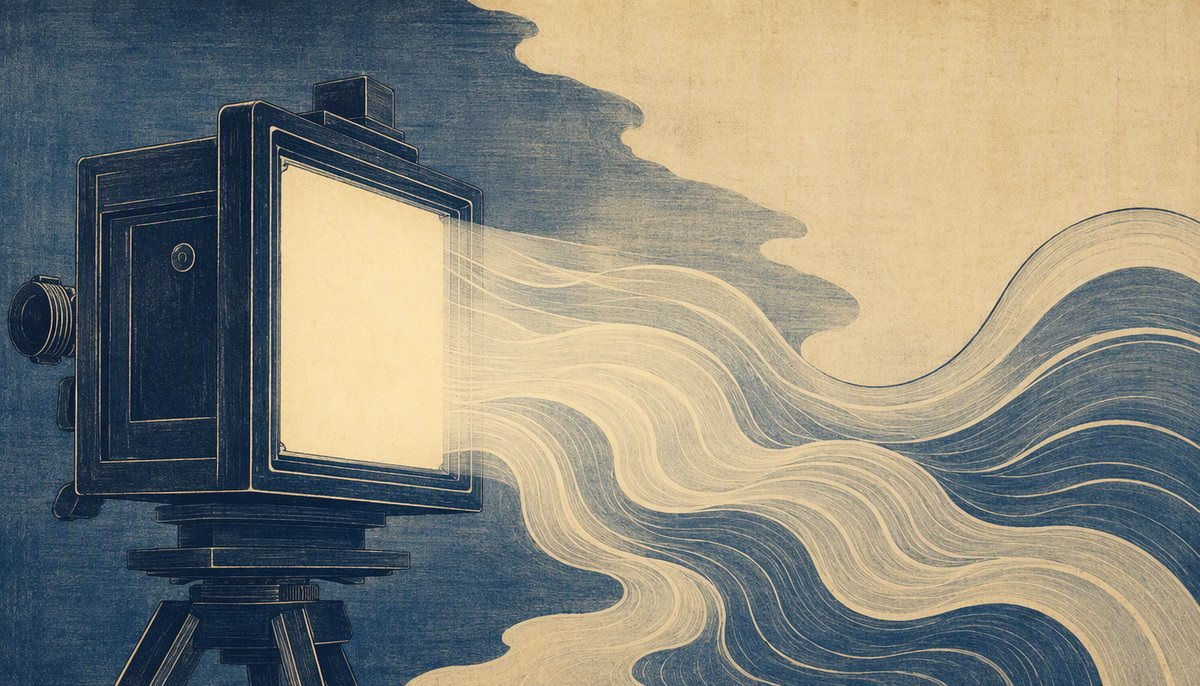
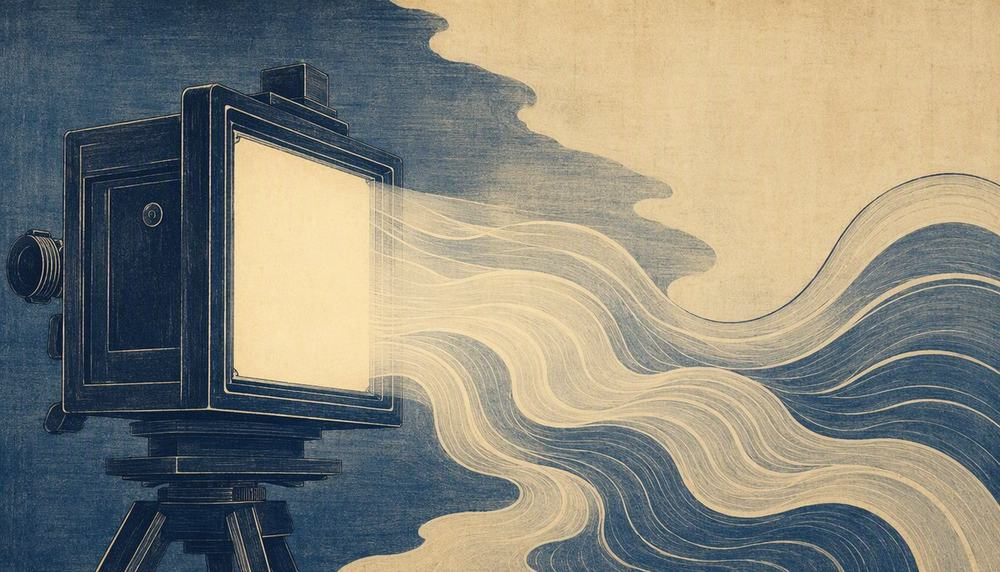
Re-encode covers as baseline JPEG and add more preview image hints
WeChat still fell back to the site icon instead of the cover, so I attacked the
two things a thumbnail fetch can actually trip on:

- The covers were **progressive** JPEGs. That is a needless compatibility risk
  for link-preview crawlers. They are now baseline (SOF0).
- The download was slow and large: 209 KB took ~2.9 s end to end. Covers are
  now 1000px wide at q76, baseline: the same file is 111 KB, and the seven
  covers went from 1.7 MB to 965 KB total.

Also declared more ways for a scraper to find the image, since OpenGraph alone
is not the only convention in this space:

- og:image:type (so the MIME is known without a second request)
- <link rel="image_src"> — what WeChat/QQ honoured before OpenGraph
- itemprop="image" — Schema.org microdata

An asset guard test class now checks the shipped covers: baseline SOF0 (walked
properly through the marker segments, so a 0xFFC2 byte inside compressed data
cannot fool it), under 200 KB each, and at least 1000px wide. Those read the
real files, unlike the HTML tests. 77 tests total.

Changed region(s): [[0.217, 0.1783, 0.248, 0.2378], [0.031, 0.4161, 0.062, 0.4755], [0.31, 0.1783, 0.341, 0.208]]

diff --git a/scripts/test_build.py b/scripts/test_build.py
@@ -720,6 +720,15 @@ class LinkPreviewTests(unittest.TestCase):
         self.assertIn('name="twitter:card" content="summary_large_image"', self.en)
         self.assertIn('name="twitter:image"', self.en)
 
+    def test_legacy_and_microdata_image_hints_are_present(self):
+        """WeChat/QQ honoured rel=image_src before OpenGraph, and some scrapers
+        read Schema.org microdata — cheap to declare both."""
+        self.assertIn('<link rel="image_src"', self.en)
+        self.assertIn('itemprop="image"', self.en)
+
+    def test_og_image_type_is_declared(self):
+        self.assertIn('property="og:image:type" content="image/png"', self.en)
+
     def test_chinese_page_declares_the_same_absolute_image(self):
         self.assertIn('property="og:image" content="https://example.test/blog/assets/covers/a.png"', self.zh)
 
@@ -747,6 +756,68 @@ class LinkPreviewTests(unittest.TestCase):
 
     def test_image_dimensions_is_none_for_a_missing_file(self):
         self.assertIsNone(blog.image_dimensions("assets/covers/nope.png"))
+
+
+def jpeg_frame_marker(path):
+    """The SOF marker of a JPEG: 0xC0 baseline, 0xC2 progressive.
+
+    Walks the marker segments properly rather than searching for the byte pair,
+    which occurs by chance inside compressed data.
+    """
+    data = path.read_bytes()
+    i = 2
+    while i < len(data) - 3:
+        if data[i] != 0xFF:
+            i += 1
+            continue
+        marker = data[i + 1]
+        if marker == 0xD8 or marker == 0x01 or 0xD0 <= marker <= 0xD7:
+            i += 2
+            continue
+        length = int.from_bytes(data[i + 2:i + 4], "big")
+        if 0xC0 <= marker <= 0xCF and marker not in (0xC4, 0xC8, 0xCC):
+            return marker
+        i += 2 + length
+    return None
+
+
+class CoverAssetTests(unittest.TestCase):
+    """The shipped covers, checked for what a link-preview crawler needs."""
+
+    @classmethod
+    def setUpClass(cls):
+        cls.assets = Path(__file__).resolve().parent.parent / "blog" / "assets"
+        cls.covers = sorted((cls.assets / "covers").glob("*.jpg"))
+        # image_dimensions() resolves against the blog being built; point it here.
+        blog._ASSET_DIR = cls.assets
+
+    @classmethod
+    def tearDownClass(cls):
+        blog._ASSET_DIR = None
+
+    def test_covers_exist(self):
+        self.assertTrue(self.covers)
+
+    def test_covers_are_baseline_jpeg(self):
+        """Progressive JPEG is a needless compatibility risk for the crawlers
+        that build chat-app link previews."""
+        for cover in self.covers:
+            with self.subTest(cover=cover.name):
+                self.assertEqual(jpeg_frame_marker(cover), 0xC0, "expected baseline SOF0")
+
+    def test_covers_stay_under_a_byte_budget(self):
+        """A thumbnail fetch has to beat a timeout; a multi-megabyte cover just
+        fails and the preview falls back to an icon."""
+        for cover in self.covers:
+            with self.subTest(cover=cover.name):
+                self.assertLess(cover.stat().st_size, 200_000, "cover too large")
+
+    def test_covers_are_at_least_1000px_wide(self):
+        for cover in self.covers:
+            with self.subTest(cover=cover.name):
+                dims = blog.image_dimensions(f"assets/covers/{cover.name}")
+                self.assertIsNotNone(dims)
+                self.assertGreaterEqual(dims[0], 1000)
 
 
 if __name__ == "__main__":

diff --git a/scripts/build.py b/scripts/build.py
@@ -673,6 +673,8 @@ UI_STRINGS = {
 # never hashes another blog's files (the tests build throwaway trees).
 _ASSET_DIR: Path | None = None
 
+IMAGE_MIME = {"jpg": "image/jpeg", "jpeg": "image/jpeg", "png": "image/png"}
+
 
 def asset_version(name: str) -> str:
     """Short content hash for a site asset, used as a cache-busting query.
@@ -769,12 +771,18 @@ def page(
             if dims
             else ""
         )
+        ext = image.rsplit(".", 1)[-1].lower()
         social = (
             f'<meta property="og:image" content="{image_url}" />'
+            f'<meta property="og:image:type" content="{IMAGE_MIME.get(ext, "image/png")}" />'
             f"{size}"
             f'<meta property="og:image:alt" content="{html.escape(title)}" />'
             f'<meta name="twitter:card" content="summary_large_image" />'
             f'<meta name="twitter:image" content="{image_url}" />'
+            # Two legacy hints: QQ/WeChat honoured rel=image_src long before
+            # OpenGraph, and some scrapers read Schema.org microdata instead.
+            f'<link rel="image_src" href="{image_url}" />'
+            f'<meta itemprop="image" content="{image_url}" />'
         )
     canonical_tag = f'<link rel="canonical" href="{canonical}" />' if canonical else ""
     # Without an icon link the browser looks for /favicon.ico; none existed, so
